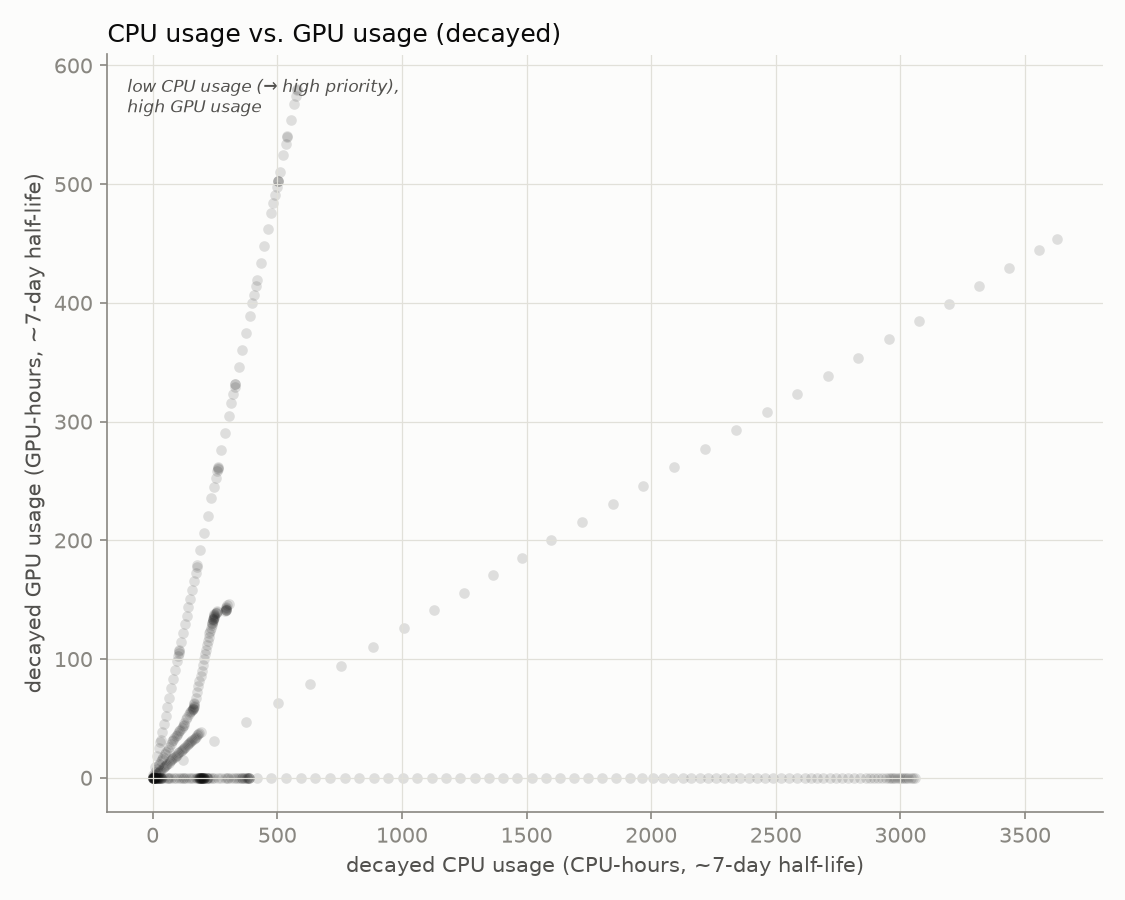
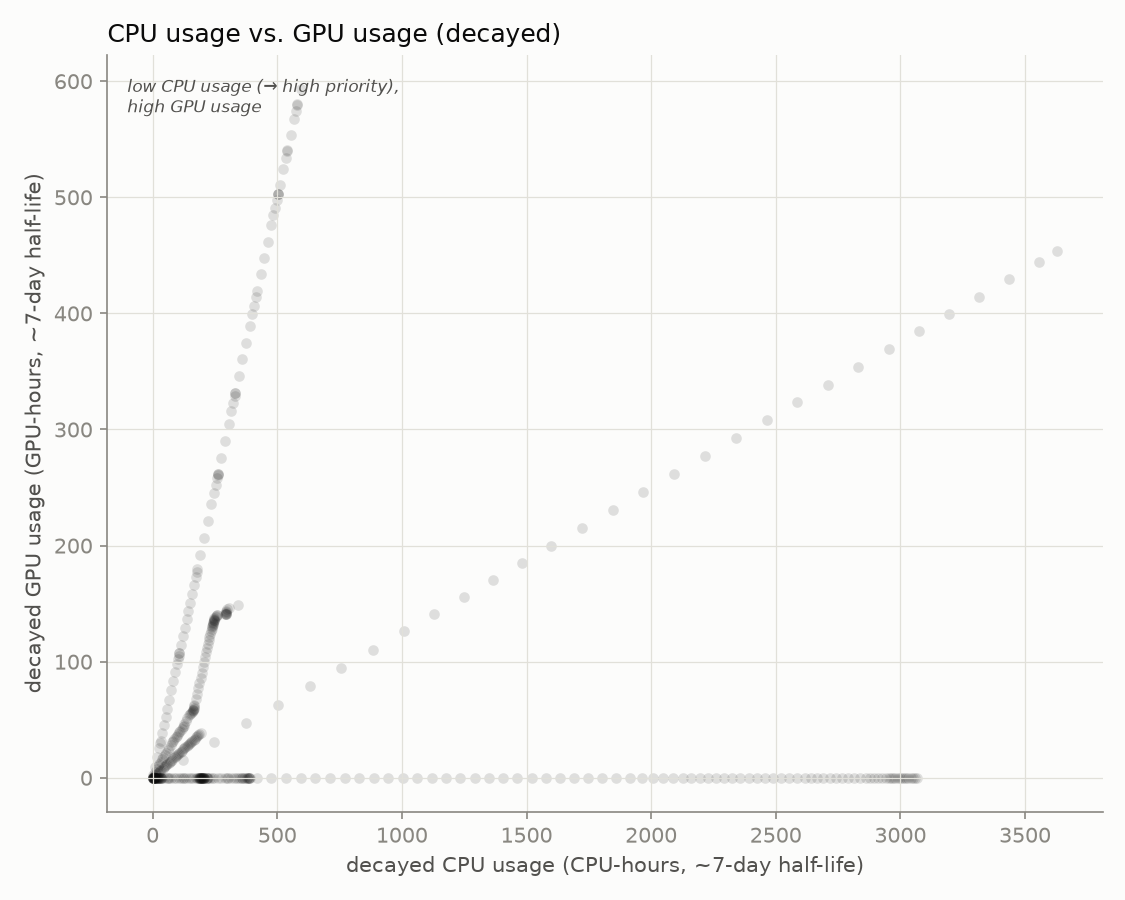
update 2026-08-07T07:00:01-07:00

diff --git a/README.md b/README.md
@@ -2,8 +2,8 @@
 
 Automated GPU/CPU/queue utilization tracker for `hopper.cluster`, updated every 30 minutes by cron. Usernames are anonymized to a stable per-account pseudonym; lab names are real.
 
-Last updated: 2026-08-07T06:30:08-07:00
-Samples: 81 queue snapshots, 81 GPU snapshots
+Last updated: 2026-08-07T07:00:20-07:00
+Samples: 82 queue snapshots, 82 GPU snapshots
 
 ## Resources
 
@@ -16,23 +16,23 @@ Samples: 81 queue snapshots, 81 GPU snapshots
 
 ## Headline
 
-- **53.3%** of the cluster's 60 GPUs allocated, averaged across all samples
-- **43.5%** average `nvidia-smi` utilization *when* a GPU is allocated to a job
+- **53.4%** of the cluster's 60 GPUs allocated, averaged across all samples
+- **43.9%** average `nvidia-smi` utilization *when* a GPU is allocated to a job
 - **85.7%** average cgroup CPU utilization *when* a CPU is allocated to a job
 
 ## Per lab / per user
 
 <table>
 <tr><th>Lab</th><th>User</th><th align='right'>GPU-hours allocated</th><th align='right'>CPU-hours allocated</th><th align='right'>GPU utilization</th></tr>
-<tr style='background-color:#fbebf1'><td>zhuang-lab</td><td>user-0db9ced0</td><td align='right'>628.0</td><td align='right'>628.0</td><td align='right'>48%</td></tr>
+<tr style='background-color:#fbebf1'><td>zhuang-lab</td><td>user-0db9ced0</td><td align='right'>643.0</td><td align='right'>643.0</td><td align='right'>49%</td></tr>
 <tr style='background-color:#d8efef'><td>witter-lab</td><td>user-d58f5a15</td><td align='right'>467.5</td><td align='right'>3740.0</td><td align='right'>9%</td></tr>
-<tr style='background-color:#d8efef'><td>witter-lab</td><td>user-554c620c</td><td align='right'>159.0</td><td align='right'>333.0</td><td align='right'>68%</td></tr>
+<tr style='background-color:#d8efef'><td>witter-lab</td><td>user-554c620c</td><td align='right'>162.5</td><td align='right'>369.5</td><td align='right'>68%</td></tr>
 <tr style='background-color:#fcf0d8'><td>nerenberg-lab</td><td>user-6bb5f332</td><td align='right'>40.0</td><td align='right'>200.0</td><td align='right'>71%</td></tr>
-<tr style='background-color:#fce8e0'><td>ibarragarciapadilla-lab</td><td>user-dad71a72</td><td align='right'>0.0</td><td align='right'>6.0</td><td align='right'>—</td></tr>
-<tr style='background-color:#dfeaf8'><td>enkavi-lab</td><td>user-c21bdaa4</td><td align='right'>0.0</td><td align='right'>38.0</td><td align='right'>—</td></tr>
+<tr style='background-color:#fce8e0'><td>ibarragarciapadilla-lab</td><td>user-3cfc41a3</td><td align='right'>0.0</td><td align='right'>3397.5</td><td align='right'>—</td></tr>
 <tr style='background-color:#fcf0d8'><td>nerenberg-lab</td><td>user-b12dc074</td><td align='right'>0.0</td><td align='right'>16.0</td><td align='right'>—</td></tr>
-<tr style='background-color:#fce8e0'><td>ibarragarciapadilla-lab</td><td>user-eec7ffae</td><td align='right'>0.0</td><td align='right'>423.5</td><td align='right'>—</td></tr>
-<tr style='background-color:#fce8e0'><td>ibarragarciapadilla-lab</td><td>user-3cfc41a3</td><td align='right'>0.0</td><td align='right'>3382.5</td><td align='right'>—</td></tr>
+<tr style='background-color:#dfeaf8'><td>enkavi-lab</td><td>user-c21bdaa4</td><td align='right'>0.0</td><td align='right'>38.0</td><td align='right'>—</td></tr>
+<tr style='background-color:#fce8e0'><td>ibarragarciapadilla-lab</td><td>user-dad71a72</td><td align='right'>0.0</td><td align='right'>6.0</td><td align='right'>—</td></tr>
+<tr style='background-color:#fce8e0'><td>ibarragarciapadilla-lab</td><td>user-eec7ffae</td><td align='right'>0.0</td><td align='right'>425.0</td><td align='right'>—</td></tr>
 </table>
 
 ## Usage over time
@@ -43,7 +43,7 @@ Samples: 81 queue snapshots, 81 GPU snapshots
 
 Solid = utilized by lab, hatched = allocated but idle, gray = usage not traceable to a lab, dashed line = cluster capacity.
 
-Attribution combines `nvidia-smi`'s process listing with Slurm's GPU-to-job binding record; the latter caught **1953** readings the former missed.
+Attribution combines `nvidia-smi`'s process listing with Slurm's GPU-to-job binding record; the latter caught **1979** readings the former missed.
 
 ## Queue
 
@@ -55,13 +55,13 @@ Attribution combines `nvidia-smi`'s process listing with Slurm's GPU-to-job bind
 
 ![CPU usage vs GPU usage, decayed](assets/cpu_gpu_usage.png)
 
-One point per user per snapshot (n=404), usage decayed on Slurm's ~7-day fairshare half-life.
+One point per user per snapshot (n=408), usage decayed on Slurm's ~7-day fairshare half-life.
 
 **GPU usage doesn't count toward priority on this cluster** (`TRESBillingWeights`/`PriorityWeightTRES` unset) - watch the **upper-left**: low CPU usage (high priority) with high GPU usage.
 
 ## Recommendations
 
-1. **Weight GPU usage in fairshare.** `TRESBillingWeights` and `PriorityWeightTRES` are both unset right now, so Slurm's fairshare score only sees CPU-seconds - a job holding 4 idle L40S GPUs costs nothing in priority as long as it isn't also holding CPUs. That's the exact failure mode the scatter above is built to catch (upper-left: low CPU usage, high GPU usage). Fix: `scontrol update partition=main TRESBillingWeights=CPU=1.0,GRES/gpu=<weight>` (or set `PriorityWeightTRES` cluster-wide), then `scontrol reconfigure` - a full `slurmctld` restart also works but drops in-flight priority state. A reasonable starting point for `<weight>` is the CPUs-per-GPU ratio on a GPU node (128 CPUs / 4 GPUs = 32), so one GPU costs as much fairshare as the CPU share it displaces; tune from there against next week's headline numbers (53.3% allocated, 43.5% utilized when allocated, as of this snapshot). The weight value itself is a policy call - loop in whoever owns cluster allocation policy before changing it.
+1. **Weight GPU usage in fairshare.** `TRESBillingWeights` and `PriorityWeightTRES` are both unset right now, so Slurm's fairshare score only sees CPU-seconds - a job holding 4 idle L40S GPUs costs nothing in priority as long as it isn't also holding CPUs. That's the exact failure mode the scatter above is built to catch (upper-left: low CPU usage, high GPU usage). Fix: `scontrol update partition=main TRESBillingWeights=CPU=1.0,GRES/gpu=<weight>` (or set `PriorityWeightTRES` cluster-wide), then `scontrol reconfigure` - a full `slurmctld` restart also works but drops in-flight priority state. A reasonable starting point for `<weight>` is the CPUs-per-GPU ratio on a GPU node (128 CPUs / 4 GPUs = 32), so one GPU costs as much fairshare as the CPU share it displaces; tune from there against next week's headline numbers (53.4% allocated, 43.9% utilized when allocated, as of this snapshot). The weight value itself is a policy call - loop in whoever owns cluster allocation policy before changing it.
 
 2. **Escalate on sustained low utilization** (see table and scatter above). Right now the clearest candidate is `user-d58f5a15` in `witter-lab`: 467.5 GPU-hours allocated at 9% average utilization, i.e. roughly 424 GPU-hours that sat idle instead of going to someone in the queue. Turning that into an automated escalation needs two decisions made up front: a utilization threshold (something like under 20% mean utilization over at least 50 allocated GPU-hours is a defensible starting bar - loose enough to skip short debugging runs, tight enough to catch parked allocations) and a grace period (how many consecutive low-utilization snapshots before it counts as "sustained" rather than a momentary lull between batches). Once those are set, the mechanism can be either soft (a bot that reads `data/gpu_samples.jsonl` and reminds the user/lab by email or Slack) or hard (a Slurm-side QOS penalty, e.g. `sacctmgr modify qos <qos> set Priority-=<n>`, applied after N consecutive offending snapshots). Neither exists yet - today the table and scatter above are a read-only signal, not an enforced policy.
 
